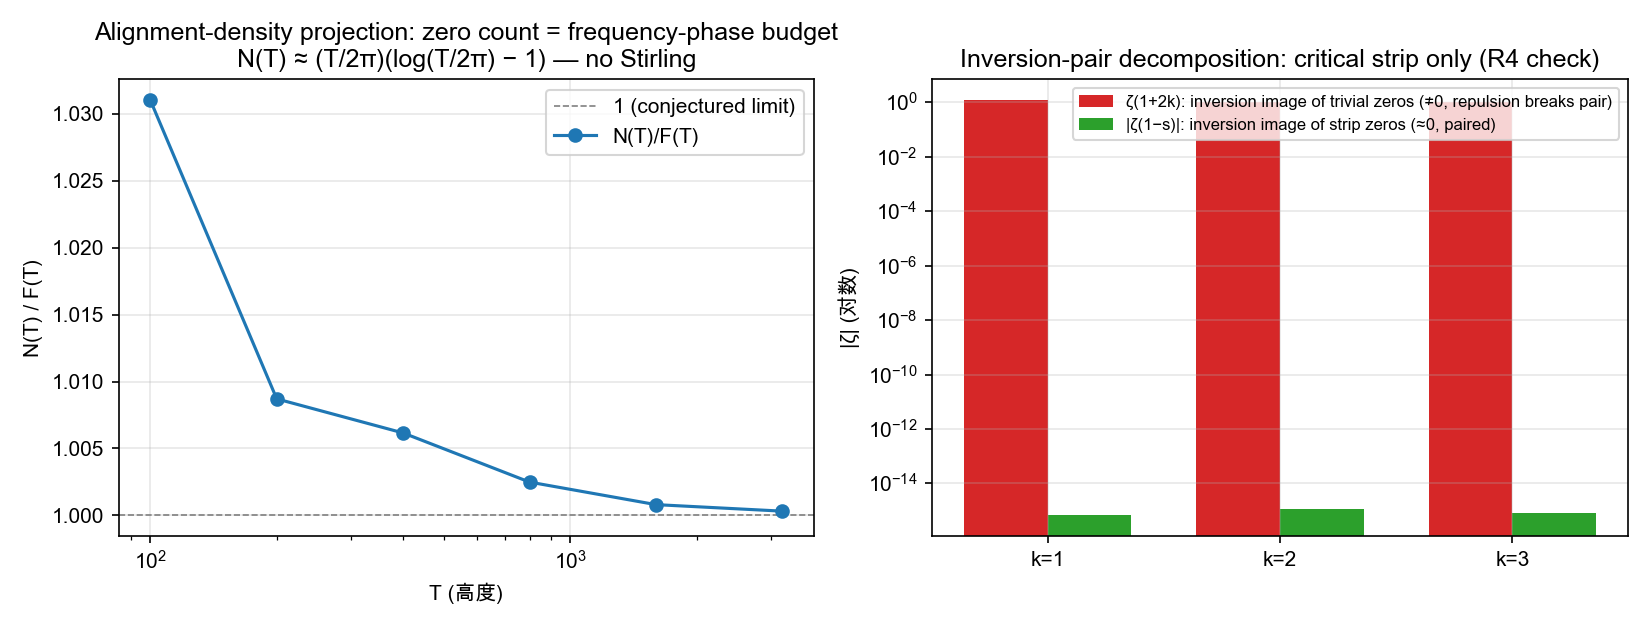
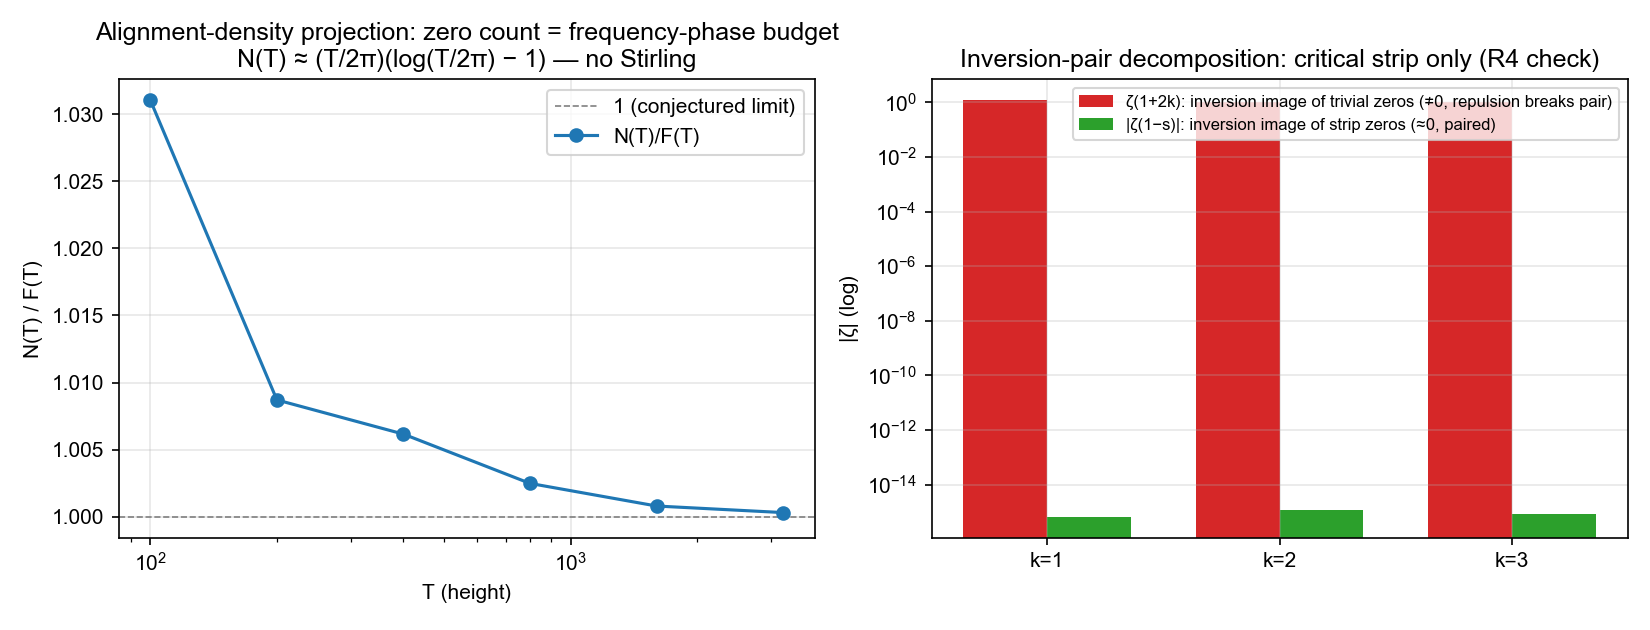
fix(paper): fig15 en version pure English labels (height/log), zh keeps Chinese; regenerate both

diff --git a/experiments/fig15_alignment_density.py b/experiments/fig15_alignment_density.py
@@ -30,7 +30,7 @@ T = {
     "en": {
         "limit_label": "1 (conjectured limit)",
         "ratio_label": "N(T)/F(T)",
-        "xlabel_left": "T (高度)",
+        "xlabel_left": "T (height)",
         "ylabel_left": "N(T) / F(T)",
         "title_left": ("Alignment-density projection: zero count = "
                        "frequency-phase budget\n"
@@ -38,7 +38,7 @@ T = {
         "trivial_label": ("ζ(1+2k): inversion image of trivial zeros "
                           "(≠0, repulsion breaks pair)"),
         "pair_label": "|ζ(1−s)|: inversion image of strip zeros (≈0, paired)",
-        "ylabel_right": "|ζ| (对数)",
+        "ylabel_right": "|ζ| (log)",
         "title_right": "Inversion-pair decomposition: critical strip only (R4 check)",
     },
     "zh": {
